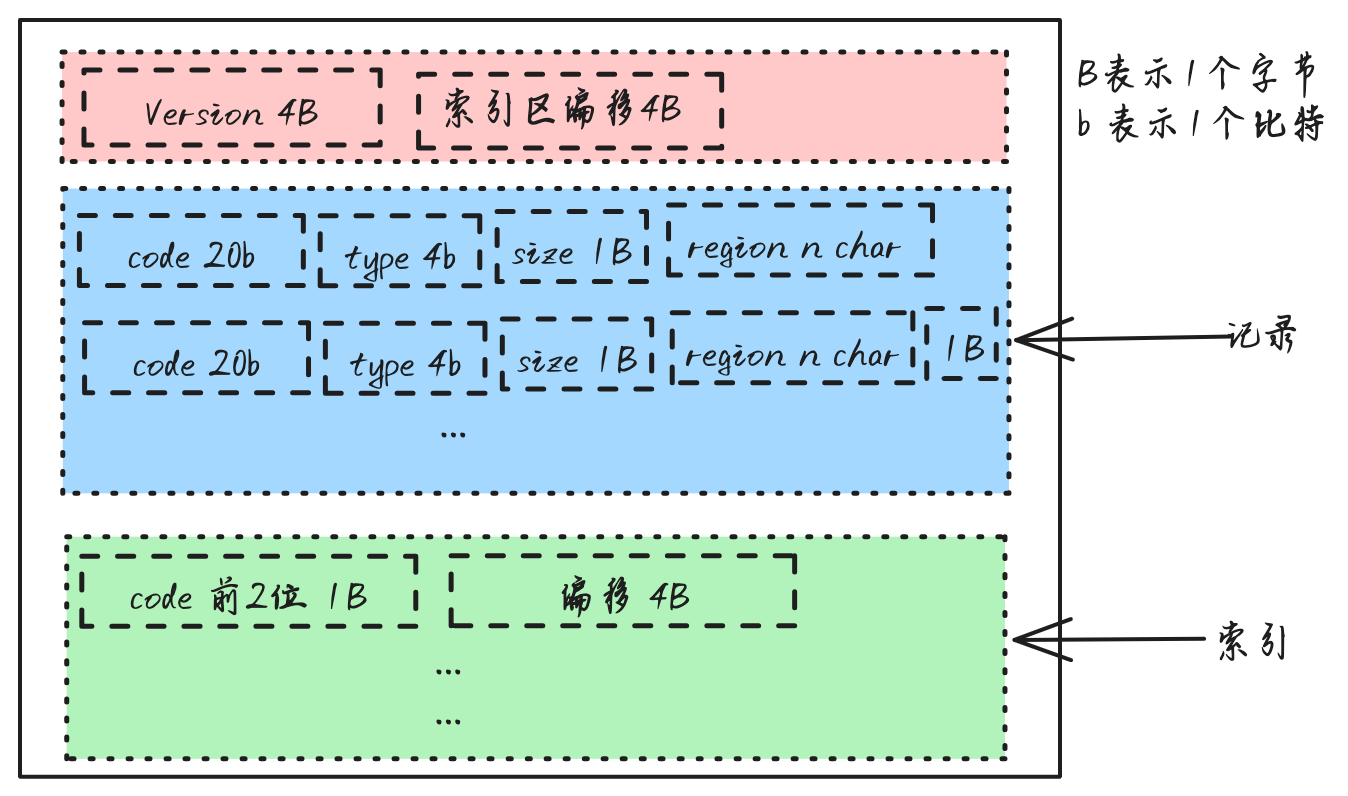
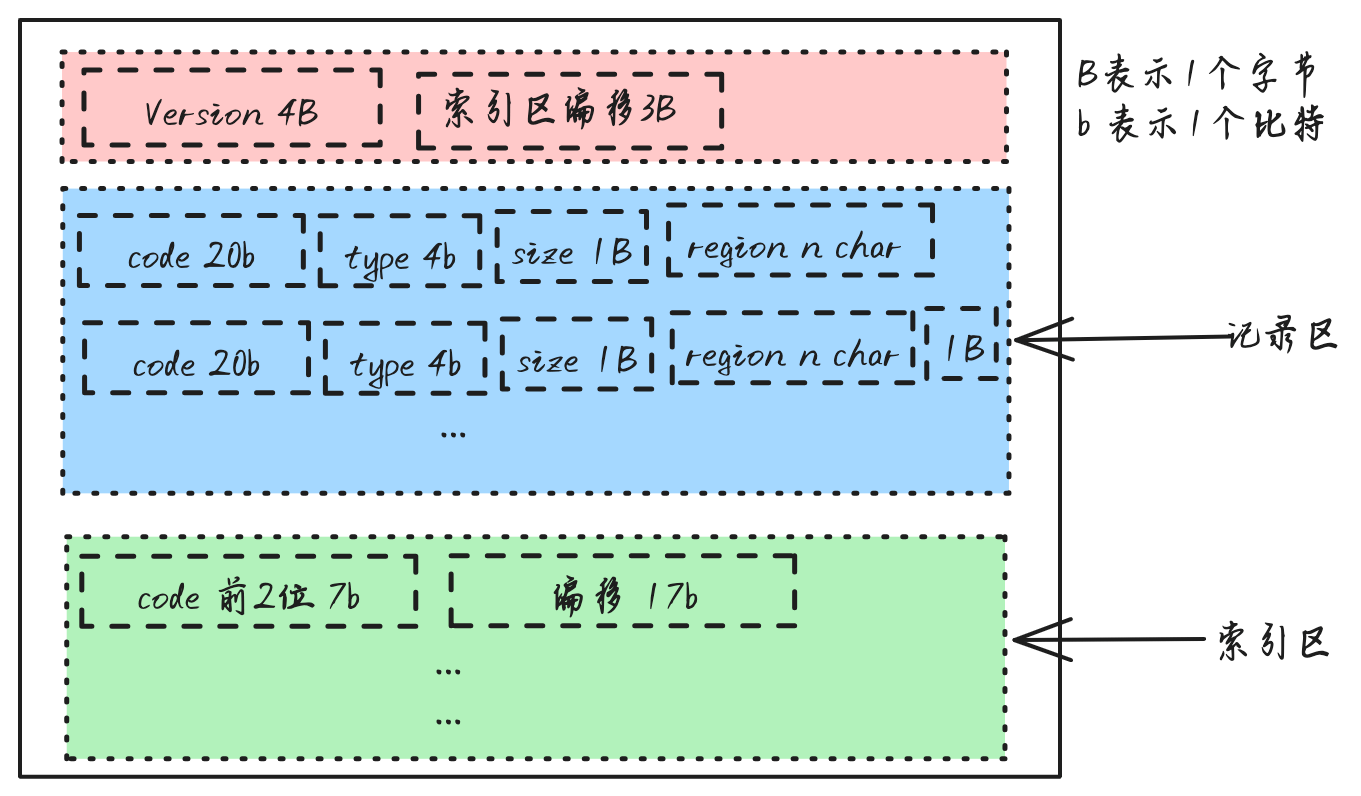
reduce dat size

diff --git a/src/region.rs b/src/region.rs
@@ -56,10 +56,10 @@ impl Region {
         let mut file = File::open(&self.file_path)?;
         // 跳过版本号
         file.seek(std::io::SeekFrom::Start(4))?;
-        let mut index_offset: [u8; 4] = [0; 4];
+        let mut index_offset: [u8; 3] = [0; 3];
         file.read_exact(&mut index_offset)?;
-        self.offset_index = i32::from_be_bytes(index_offset);
-        let mut record = vec![0u8; (self.offset_index - 8) as usize];
+        self.offset_index = be_u8_slice_to_i32(&index_offset);
+        let mut record = vec![0u8; (self.offset_index - 7) as usize];
         file.read_exact(&mut record)?;
         let mut res = Vec::new();
         while !record.is_empty() {
@@ -127,12 +127,12 @@ impl Region {
         }
         let mut file = File::open(&self.file_path)?;
         file.seek(std::io::SeekFrom::Start(4))?;
-        let mut index_offset: [u8; 4] = [0; 4];
+        let mut index_offset: [u8; 3] = [0; 3];
         file.read_exact(&mut index_offset)?;
-        self.offset_index = i32::from_be_bytes(index_offset);
+        self.offset_index = be_u8_slice_to_i32(&index_offset);
         // 查找索引区
         file.seek(std::io::SeekFrom::Start(self.offset_index as u64))?;
-        let mut region_code_offset: [u8; 5] = [0u8; 5];
+        let mut region_code_offset: [u8; 3] = [0u8; 3];
         let region_code_int: i32 = region_code.parse()?;
         let mut offset = 0;
         for _ in 0..50 {
@@ -140,8 +140,11 @@ impl Region {
             if amount == 0 {
                 break;
             }
-            if region_code_offset.first().unwrap() == &((region_code_int / 10000) as u8) {
-                offset = i32::from_be_bytes(region_code_offset[1..].try_into()?);
+            // 高7位表示code的前2位，后17位表示偏移
+            let combine = be_u8_slice_to_i32(&region_code_offset);
+            let code_2 = combine >> 17;
+            if code_2 == region_code_int / 10000 {
+                offset = combine - (code_2 << 17);
                 break;
             }
         }
@@ -165,6 +168,7 @@ impl Region {
             if region / 10000 != region_code_int / 10000 {
                 break;
             }
+            // let region_type = region_data - (region << 4);
             let region_type = region_data % region;
             let size = province_record[3 + offset];
             if search_codes.contains(&region.to_string()) {
@@ -204,7 +208,7 @@ mod tests {
     #[test]
     fn test_region() {
         let mut region = Region::new(PathBuf::from("data/region_full.dat"));
-        assert_eq!(region.get_version().unwrap(), "2024092535");
+        assert_eq!(region.get_version().unwrap(), "2024092612");
         let result = region.search_with_data("530925").unwrap();
         assert_eq!(result.name, "云南省临沧市双江拉祜族佤族布朗族傣族自治县");
         assert_eq!(

diff --git a/data/region.py b/data/region.py
@@ -64,15 +64,15 @@ class RegionCtr:
         self.file_name = file_name
 
     def pack(self, data_list: list[tuple[str, str, str]] | list[tuple[str, str]], version: int = 0) -> bool:
-        version = version or int(datetime.now().strftime('%Y%m%d%M'))
+        version = version or int(datetime.now().strftime('%Y%m%d%H'))
         print('version: ', version)
         with open(self.file_name, 'wb') as f:
             # 写32位版本号
             f.write(version.to_bytes(length=4))
             # 先跳过偏移
-            f.seek(8)
+            f.seek(7)
             # 写数据, code [i:3] type [i: 1] region [c: n] \n
-            index_offset = 8
+            index_offset = 7
             offset_map: dict[int, int] = {}
             for data in data_list:
                 discard_year = ''
@@ -101,16 +101,18 @@ class RegionCtr:
                 if discard_year_int:
                     f.write(discard_year_int.to_bytes(1))
                 index_offset += 3 + 1 + name_size
-            # 写索引区偏移
+            # 写索引区偏移， 索引区偏移3个字节
             f.seek(4)
-            f.write(index_offset.to_bytes(4))
+            f.write(index_offset.to_bytes(3))
             f.seek(index_offset)
             # 写索引区
             offset_codes = list(offset_map.keys())
             offset_codes.sort()
             for offset_code in offset_codes:
-                f.write(offset_code.to_bytes(1))
-                f.write(offset_map[offset_code].to_bytes(4))
+                # offset_code 高7位， offset 低17位，刚好3个字节
+                combine = offset_code << 17
+                combine += offset_map[offset_code]
+                f.write(combine.to_bytes(3))
         return True
 
     def search(self, region_code: str) -> tuple[str, list[str]]:
@@ -120,17 +122,19 @@ class RegionCtr:
             # version = int.from_bytes(f.read(4), byteorder="big")
             # 跳过版本号
             f.seek(4)
-            index_offset = int.from_bytes(f.read(4), byteorder='big')
+            index_offset = int.from_bytes(f.read(3), byteorder='big')
             # 查找 索引区
             code_2 = int(region_code[:2])
             f.seek(index_offset)
             offset = 0
             for _ in range(0, 50):
-                index = f.read(5)
-                if not index:
+                combine_bytes = f.read(3)
+                if not combine_bytes:
                     return '', []
-                if code_2 == index[0]:
-                    offset = int.from_bytes(index[1:])
+                combine = int.from_bytes(combine_bytes)
+                code = combine >> 17
+                if code_2 == code:
+                    offset = combine % (2**17)
                     break
             if not offset:
                 return '', []

diff --git a/README.md b/README.md
@@ -13,7 +13,7 @@
 
 也提供了 MySQL 数据库 SQL 文件供下载 [data/region.sql](./data/region.sql)。
 
-**请务必下载最新的数据文件**，最新文件的版本号为`2024092535`，可以通过`get_version`方法获取。
+**请务必下载最新的数据文件**，最新文件的版本号为`2024092612`，可以通过`get_version`方法获取。
 
 `region*.dat`文件的数据结构如下:
 
